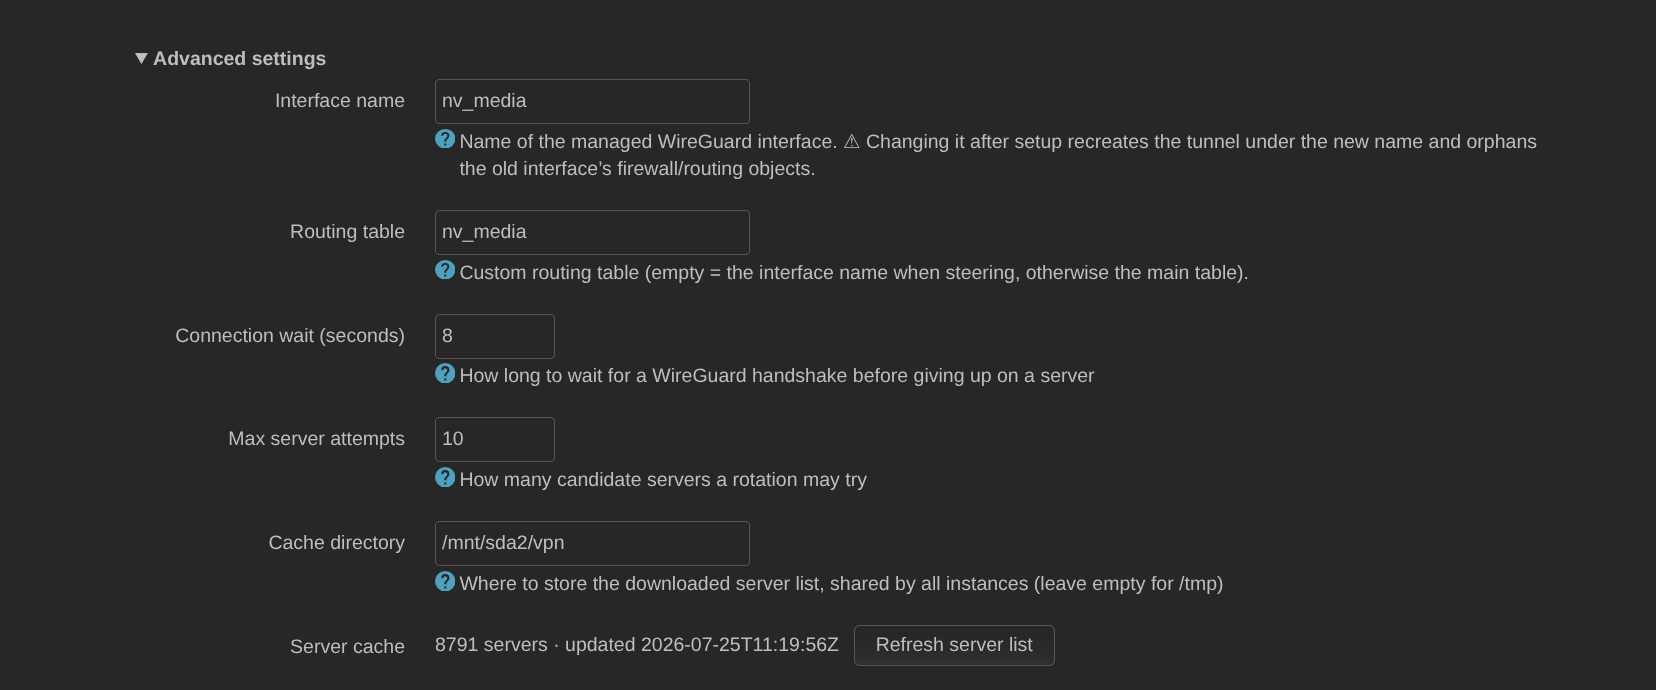
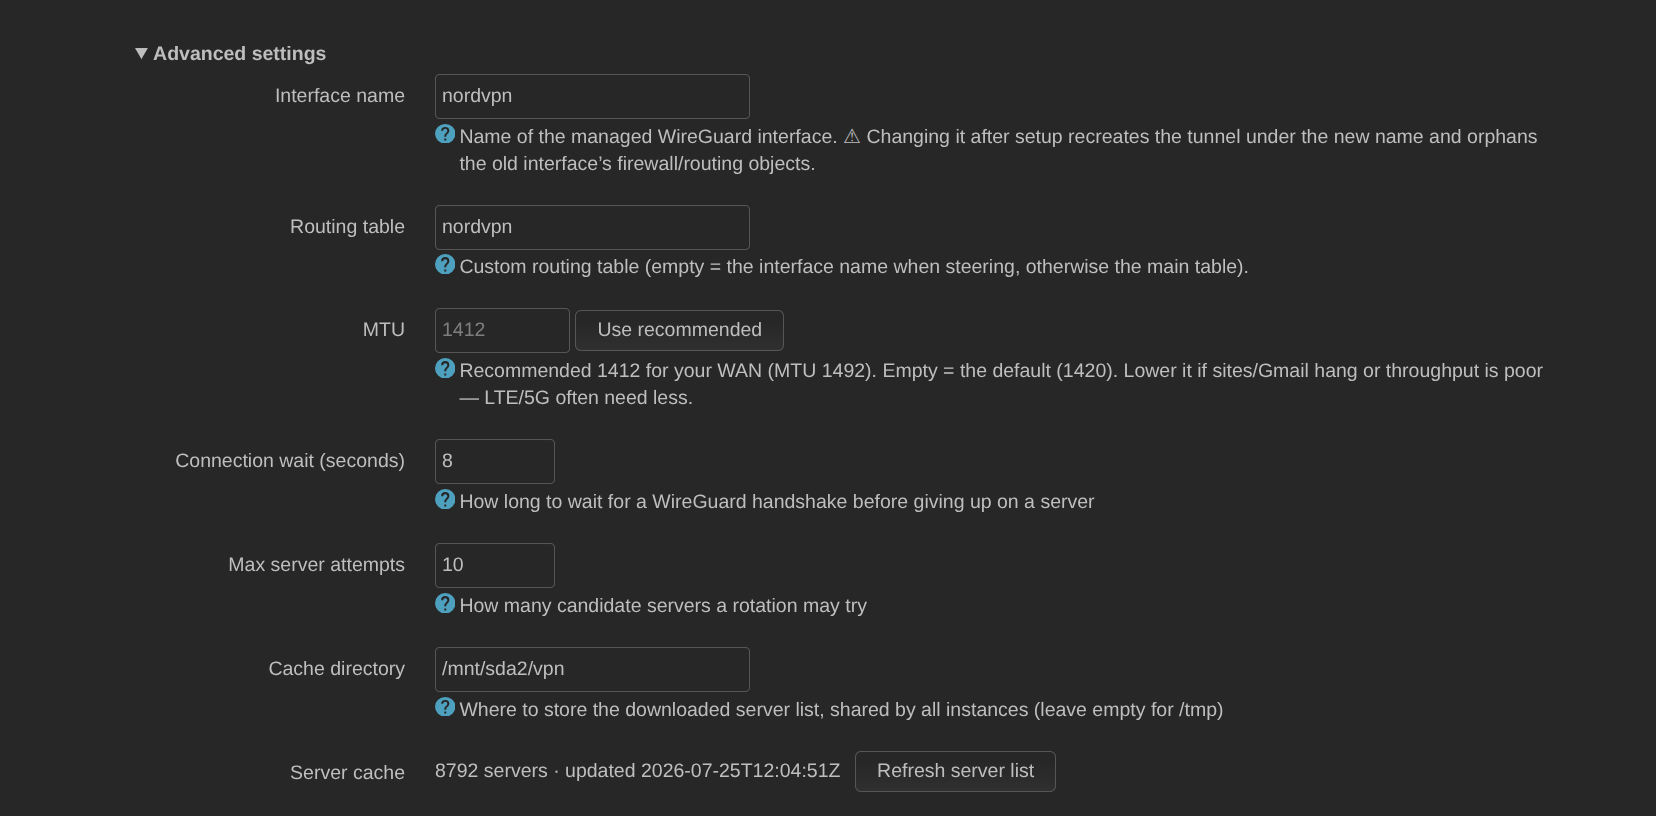
nordvpn-wireguard: MTU override with a WAN-derived recommendation
WireGuard tunnels are chronically MTU-sensitive on OpenWrt (throughput drops,
PMTUD blackholes — pages/Gmail hang), and until now the interface MTU could not
be tuned from the LuCI page. Add an optional MTU with a computed recommendation:

- backend reads the WAN uplink's L3 MTU (via the WAN firewall zone, so an active
  auto-routing default through the tunnel does not mislead it) and recommends
  WAN_MTU-80 (60 bytes real WG/UDP/IPv4 overhead + 20 margin), clamped to
  [1280, 1420]; exposed as routing.recommended_mtu / wan_mtu
- write_relay sets/clears the interface mtu; load_settings validates 1280-1500
- LuCI: an MTU field in Advanced prefilled with the recommendation as its
  placeholder, a one-click "Use recommended", and a note explaining when to
  lower it; MSS clamping (mtu_fix) stays as a backstop
- verified live: 1492 PPPoE WAN -> recommends 1412 (matches NordLynx), applied
  to the tunnel and reconnected cleanly

Tests cover recommend_mtu; README (+ RU/DE) and the advanced screenshot updated.

Changed region(s): [[0.0616, 0.0609, 0.9239, 0.8826], [0.1848, 0.913, 0.6467, 0.9739], [0.1848, 0.2739, 0.2464, 0.3652]]

diff --git a/luci-app-nordvpn/htdocs/luci-static/resources/view/nordvpn/overview.js b/luci-app-nordvpn/htdocs/luci-static/resources/view/nordvpn/overview.js
@@ -765,11 +765,30 @@ return view.extend({
 		var gm = function(o, d) { return uci.get('nordvpn', 'main', o) || d; };
 		this.cacheRow = E('span', {}, this.cacheSummary());
 
+		// MTU with a WAN-derived recommendation (backend computes WAN_MTU - 80).
+		var rtx = (this.status || {}).routing || {};
+		var recMtu = rtx.recommended_mtu;
+		var mtuInput = this.input('mtu', 'number', g('mtu', ''),
+			{ min: 1280, max: 1500, style: 'width:90px', placeholder: recMtu ? ('' + recMtu) : '1420' });
+		var mtuCtl = [ mtuInput ];
+		if (recMtu) {
+			mtuCtl.push(' ');
+			mtuCtl.push(E('button', { class: 'cbi-button', click: L.bind(function(ev) {
+				ev.preventDefault();
+				mtuInput.value = recMtu;
+				this.markDirty();
+			}, this) }, _('Use recommended')));
+		}
+		var mtuDesc = recMtu
+			? _('Recommended %d for your WAN (MTU %d). Empty = the default (1420). Lower it if sites/Gmail hang or throughput is poor — LTE/5G often need less.').format(recMtu, rtx.wan_mtu || 0)
+			: _('WireGuard interface MTU. Empty = the netifd default (1420).');
+
 		var body = E('div', { class: 'cbi-section-node' }, [
 			this.row(_('Interface name'), [ this.input('interface', 'text', g('interface', 'nordvpn')) ],
 				_('Name of the managed WireGuard interface. ⚠ Changing it after setup recreates the tunnel under the new name and orphans the old interface’s firewall/routing objects.')),
 			this.row(_('Routing table'), [ this.input('routing_table', 'text', g('routing_table', ''), { placeholder: 'main' }) ],
 				_('Custom routing table (empty = the interface name when steering, otherwise the main table).')),
+			this.row(_('MTU'), mtuCtl, mtuDesc),
 			this.row(_('Connection wait (seconds)'), [ this.input('verify_timeout', 'number', g('verify_timeout', '8'), { min: 2, max: 30, style: 'width:80px' }) ],
 				_('How long to wait for a WireGuard handshake before giving up on a server')),
 			this.maxRetriesRow = this.row(_('Max server attempts'), [ this.input('max_retries', 'number', g('max_retries', '10'), { min: 1, max: 50, style: 'width:80px' }) ],
@@ -1014,7 +1033,7 @@ return view.extend({
 			else
 				uci.set('nordvpn', sec, o, v);
 		};
-		[ 'interface', 'routing_table', 'verify_timeout', 'max_retries' ].forEach(L.bind(function(k) {
+		[ 'interface', 'routing_table', 'verify_timeout', 'max_retries', 'mtu' ].forEach(L.bind(function(k) {
 			if (this.refs[k]) setv(k, (this.refs[k].value || '').trim());
 		}, this));
 		// The cache directory is shared and lives on the 'main' section.

diff --git a/README.ru.md b/README.ru.md
@@ -176,6 +176,7 @@ config instance 'main'
 	option enabled '0'
 	option interface 'nordvpn'
 	option routing_table ''
+	option mtu ''                     # пусто = дефолт 1420; UI советует WAN-80
 	option hop_mode 'single'          # 'multihop' (Double VPN) / 'onion' (via Tor)
 	option country_code 'ee'
 	option city_code 'ee-tallinn'
@@ -199,6 +200,13 @@ config instance 'main'
 **Advanced settings**, Расширенные настройки):
 
 ![Расширенные настройки](docs/screenshots/advanced.png)
+
+**MTU** оставлен на дефолт netifd для WireGuard (1420), пока вы его не зададите.
+Страница считает рекомендацию из MTU вашего WAN (`WAN − 80` — накладные расходы
+WireGuard/UDP/IPv4 плюс запас; например, 1412 на 1492 PPPoE, ровно как у NordLynx)
+и предлагает кнопку **Use recommended** в один клик. Опустите его, если страницы
+или Gmail подвисают либо плохой throughput; LTE/5G-аплинки часто требуют меньше.
+TCP MSS-clamping (`mtu_fix`) остаётся как страховка.
 
 Сгенерированный интерфейс/пир WireGuard находятся в `/etc/config/network` и
 управляются бэкендом. Приватный ключ хранится там для netifd, но никогда не

diff --git a/README.de.md b/README.de.md
@@ -177,6 +177,7 @@ config instance 'main'
 	option enabled '0'
 	option interface 'nordvpn'
 	option routing_table ''
+	option mtu ''                     # leer = Standard 1420; UI empfiehlt WAN-80
 	option hop_mode 'single'          # 'multihop' (Double VPN) / 'onion' (via Tor)
 	option country_code 'ee'
 	option city_code 'ee-tallinn'
@@ -200,6 +201,14 @@ All dies lässt sich über die LuCI-Seite bearbeiten (das meiste unter
 **Erweiterte Einstellungen** / Advanced settings):
 
 ![Erweiterte Einstellungen](docs/screenshots/advanced.png)
+
+Die **MTU** bleibt beim WireGuard-Standard von netifd (1420), sofern du sie
+nicht setzt. Die Seite berechnet eine Empfehlung aus der MTU deines WAN
+(`WAN − 80` — WireGuard/UDP/IPv4-Overhead plus Sicherheitsreserve; z. B. 1412
+bei 1492 PPPoE, genau wie NordLynx) und bietet einen Ein-Klick-Button
+**Use recommended**. Senke sie, wenn Seiten oder Gmail hängen oder der
+Durchsatz schlecht ist; LTE/5G-Uplinks brauchen oft weniger. TCP-MSS-Clamping
+(`mtu_fix`) bleibt als Absicherung aktiv.
 
 Das erzeugte WireGuard-Interface/-Peer liegt in `/etc/config/network` und wird
 vom Backend verwaltet. Der private Schlüssel wird dort für netifd gespeichert,

diff --git a/README.md b/README.md
@@ -170,6 +170,7 @@ config instance 'main'
 	option enabled '0'
 	option interface 'nordvpn'
 	option routing_table ''
+	option mtu ''                     # empty = default 1420; UI recommends WAN-80
 	option hop_mode 'single'          # 'multihop' (Double VPN) / 'onion' (via Tor)
 	option country_code 'ee'
 	option city_code 'ee-tallinn'
@@ -192,6 +193,13 @@ config instance 'main'
 All of these are editable from the LuCI page (most under **Advanced settings**):
 
 ![Advanced settings](docs/screenshots/advanced.png)
+
+**MTU** is left to netifd's WireGuard default (1420) unless you set it. The page
+computes a recommendation from your WAN's MTU (`WAN − 80`, the WireGuard/UDP/IPv4
+overhead plus a safety margin — e.g. 1412 on a 1492 PPPoE line, matching what
+NordLynx uses) and offers a one-click **Use recommended**. Lower it if pages or
+Gmail hang, or throughput is poor; LTE/5G uplinks often need less. TCP MSS
+clamping (`mtu_fix`) stays on as a backstop.
 
 The generated WireGuard interface/peer live in `/etc/config/network` and are
 backend-owned. The private key is stored there for netifd but never appears in
